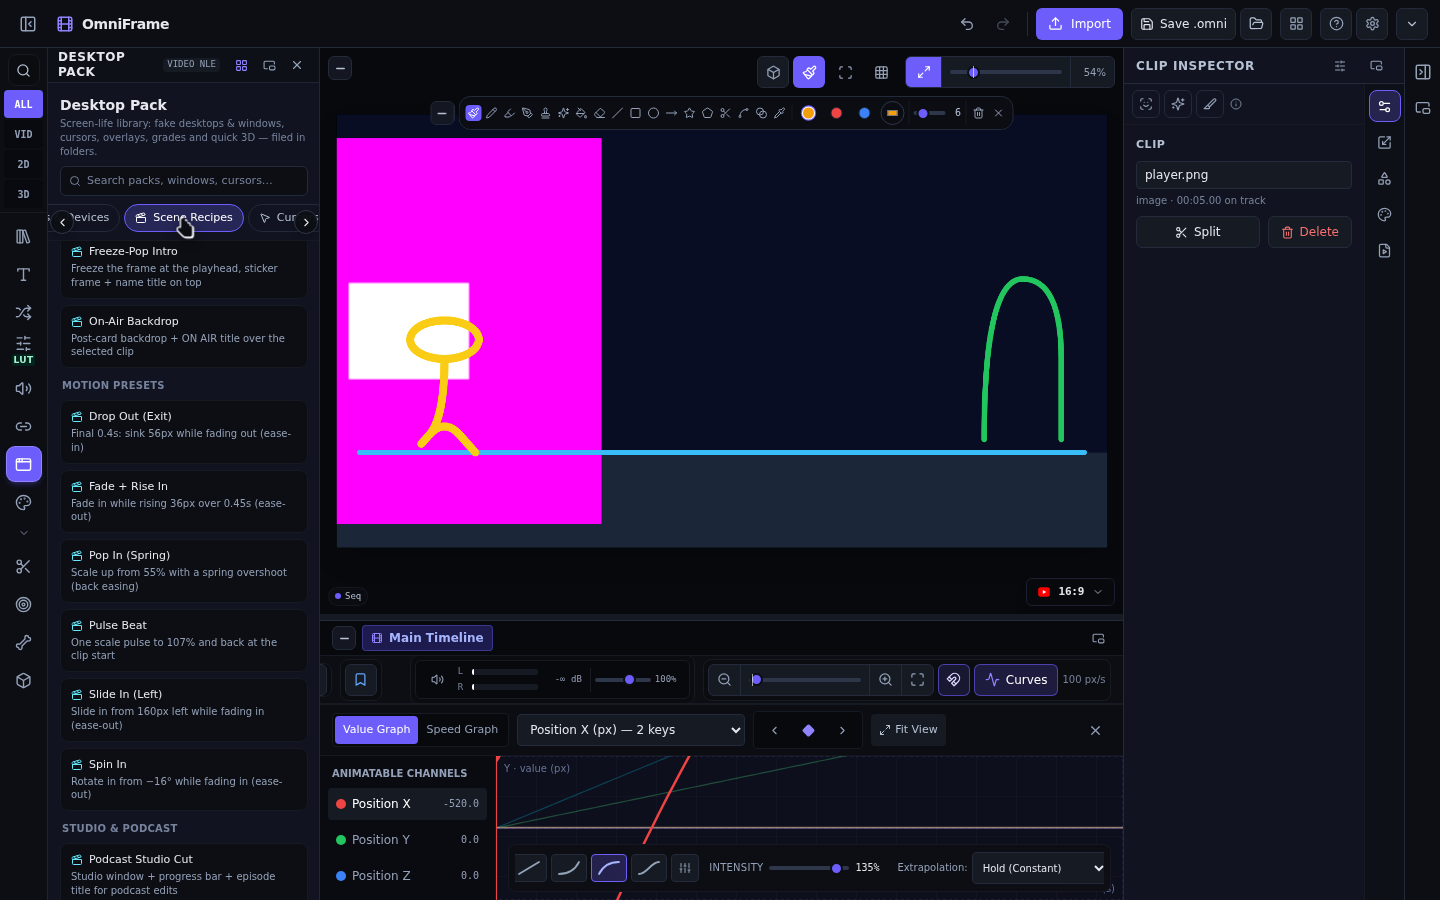
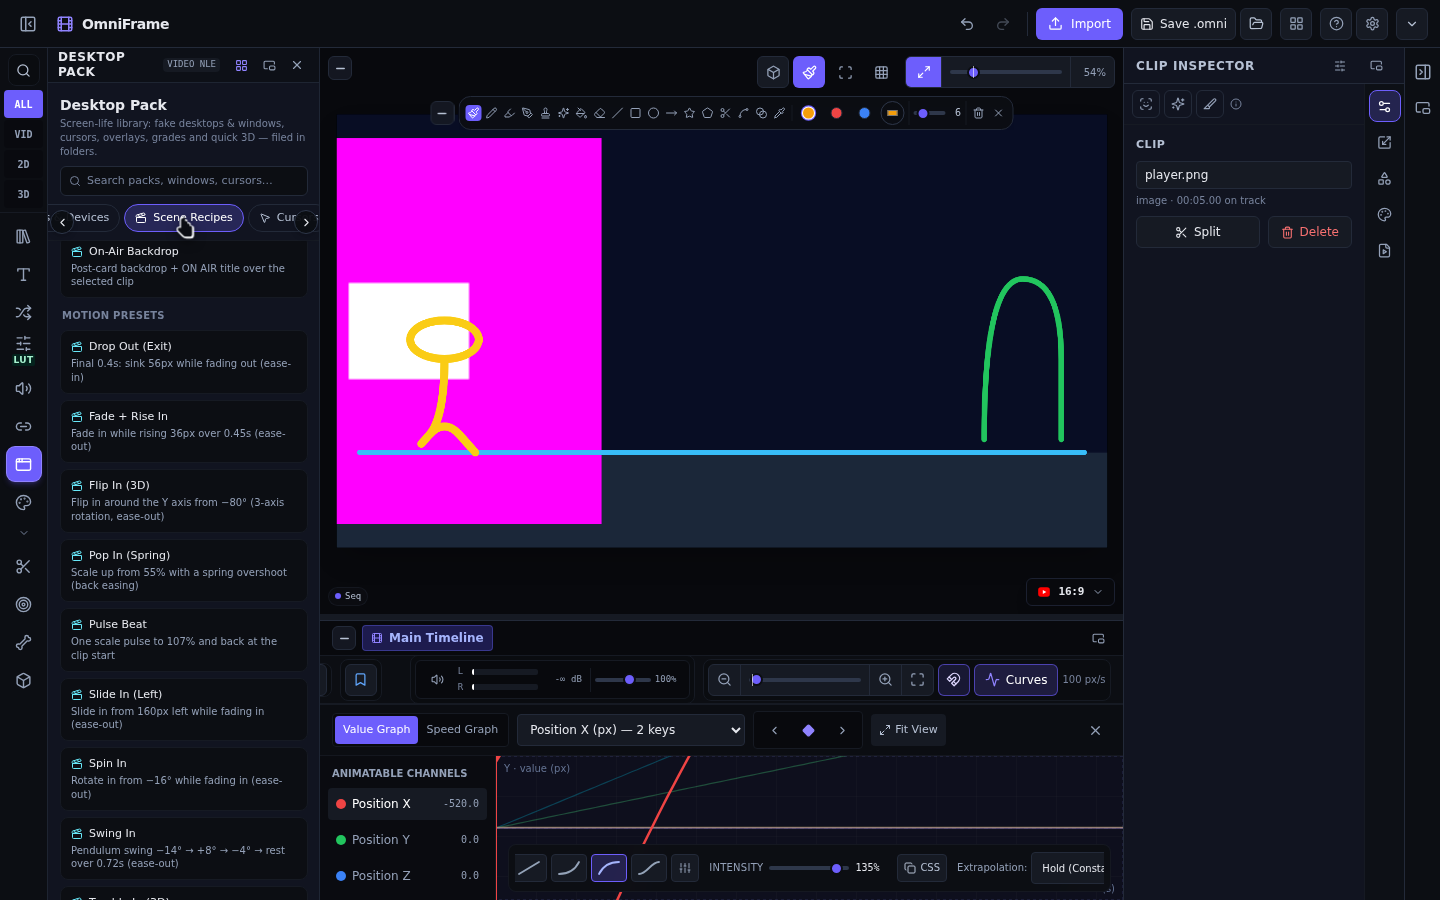
More tricks: 3D Flip/Tumble/Swing presets + Copy-easing-as-CSS
Three new Motion Presets ride the Rotation X/Y engine (recipes 15->18,
Motion Presets 6->9): Flip In (3D) on rotation_y, Tumble In (3D) on
rotation_x, Swing In pendulum on rotation_z — all ordinary editable
keyframes via setClipKeyframe.

Jitter follow-up from the docs-scan gap table: Copy-as-CSS in the
Graph Editor. easingToCss/keyframeSegmentToCss sample the exact
evaluated curve (bezier handles + easing intensity included) into a
CSS linear() timing function; constant maps to steps(1, end).

QA: apps-scenes (flip/tumble/swing keyframe writes), graph-capcut
37/37 (section 4d incl. clipboard readback of the sampled linear()),
sidebar-segmentation 21/21, typecheck. Screenshot tour extended:
05 re-shot with new presets, 06 catches the player mid-flip.

diff --git a/src/components/GraphEditor.tsx b/src/components/GraphEditor.tsx
@@ -9,6 +9,7 @@ import {
   Trash2,
   Sliders,
   Check,
+  Copy,
   X,
   RefreshCw,
   Layers,
@@ -26,6 +27,8 @@ import {
   addOrUpdateKeyframe,
   applyEasingPreset,
   removeKeyframe,
+  easingToCss,
+  keyframeSegmentToCss,
 } from '../lib/animation/CurveEngine'
 import { BlenderRotationIcon } from './icons/BlenderRotationIcon'
 
@@ -84,6 +87,7 @@ export function GraphEditor() {
   const [viewValRange, setViewValRange] = useState<[number, number]>([-100, 100])
   const [selectedKeyframeId, setSelectedKeyframeId] = useState<string | null>(null)
   const [morePresetsOpen, setMorePresetsOpen] = useState(false)
+  const [cssCopied, setCssCopied] = useState(false)
   const [draggingTarget, setDraggingTarget] = useState<
     { type: 'key'; keyId: string; startPointer: { x: number; y: number }; startT: number; startV: number }
     | { type: 'inHandle' | 'outHandle'; keyId: string; startPointer: { x: number; y: number }; startDt: number; startDv: number }
@@ -855,6 +859,39 @@ export function GraphEditor() {
                     </span>
                   </div>
                 )}
+
+                {/* Copy easing as CSS (Jitter-style developer handoff) */}
+                <button
+                  type="button"
+                  data-testid="easing-copy-css-btn"
+                  title="Copy this segment's easing as a CSS timing function"
+                  onClick={async () => {
+                    if (!activeCurve) return
+                    const css =
+                      keyframeSegmentToCss(activeCurve, selectedKeyframe.id) ??
+                      easingToCss(selectedKeyframe.interpolation, selectedKeyframe.easingIntensity ?? 1)
+                    try {
+                      await navigator.clipboard.writeText(css)
+                    } catch {
+                      const ta = document.createElement('textarea')
+                      ta.value = css
+                      document.body.appendChild(ta)
+                      ta.select()
+                      document.execCommand('copy')
+                      ta.remove()
+                    }
+                    setCssCopied(true)
+                    window.setTimeout(() => setCssCopied(false), 1600)
+                  }}
+                  className={`flex items-center gap-1 shrink-0 rounded border px-1.5 h-7 text-[10px] font-medium transition-colors focus-visible:outline-none focus-visible:ring-2 focus-visible:ring-brand ${
+                    cssCopied
+                      ? 'border-emerald-500/60 bg-emerald-500/15 text-emerald-300'
+                      : 'border-ink-700 bg-ink-800 text-ink-300 hover:border-ink-600 hover:text-white'
+                  }`}
+                >
+                  {cssCopied ? <Check size={12} /> : <Copy size={12} />}
+                  {cssCopied ? 'Copied' : 'CSS'}
+                </button>
 
                 {/* Extrapolation Mode Dropdown */}
                 <div className="flex items-center gap-1 shrink-0 ml-auto">

diff --git a/src/components/DesktopPackPanel.tsx b/src/components/DesktopPackPanel.tsx
@@ -313,6 +313,52 @@ const SCENE_RECIPES: SceneRecipe[] = [
       return 'Drop Out keyframed at the clip end — tune it in the Graph Editor'
     },
   },
+  {
+    id: 'motion-flip-in', label: 'Flip In (3D)', desc: 'Flip in around the Y axis from −80° (3-axis rotation, ease-out)', group: 'Motion Presets', needsClip: true,
+    run: async () => {
+      const s = useEditor.getState()
+      const clip = s.clips.find((c) => c.id === s.selectedClipId)
+      if (!clip) return 'Select a clip first'
+      const t = clip.transform
+      const base = t.rotationY ?? 0
+      s.setClipKeyframe(clip.id, 'rotation_y', 0, base - 80, 'ease-out')
+      s.setClipKeyframe(clip.id, 'rotation_y', 0.55, base, 'ease-out')
+      s.setClipKeyframe(clip.id, 'opacity', 0, 0, 'ease-out')
+      s.setClipKeyframe(clip.id, 'opacity', 0.4, t.opacity, 'ease-out')
+      return 'Flip In (3D) keyframed on Rotation Y — tune it in the Graph Editor'
+    },
+  },
+  {
+    id: 'motion-tumble-in', label: 'Tumble In (3D)', desc: 'Tumble in around the X axis from +70° (3-axis rotation, ease-out)', group: 'Motion Presets', needsClip: true,
+    run: async () => {
+      const s = useEditor.getState()
+      const clip = s.clips.find((c) => c.id === s.selectedClipId)
+      if (!clip) return 'Select a clip first'
+      const t = clip.transform
+      const base = t.rotationX ?? 0
+      s.setClipKeyframe(clip.id, 'rotation_x', 0, base + 70, 'ease-out')
+      s.setClipKeyframe(clip.id, 'rotation_x', 0.55, base, 'ease-out')
+      s.setClipKeyframe(clip.id, 'opacity', 0, 0, 'ease-out')
+      s.setClipKeyframe(clip.id, 'opacity', 0.4, t.opacity, 'ease-out')
+      return 'Tumble In (3D) keyframed on Rotation X — tune it in the Graph Editor'
+    },
+  },
+  {
+    id: 'motion-swing-in', label: 'Swing In', desc: 'Pendulum swing −14° → +8° → −4° → rest over 0.72s (ease-out)', group: 'Motion Presets', needsClip: true,
+    run: async () => {
+      const s = useEditor.getState()
+      const clip = s.clips.find((c) => c.id === s.selectedClipId)
+      if (!clip) return 'Select a clip first'
+      const t = clip.transform
+      s.setClipKeyframe(clip.id, 'rotation_z', 0, t.rotation - 14, 'ease-out')
+      s.setClipKeyframe(clip.id, 'rotation_z', 0.28, t.rotation + 8, 'ease-out')
+      s.setClipKeyframe(clip.id, 'rotation_z', 0.52, t.rotation - 4, 'ease-out')
+      s.setClipKeyframe(clip.id, 'rotation_z', 0.72, t.rotation, 'ease-out')
+      s.setClipKeyframe(clip.id, 'opacity', 0, 0, 'ease-out')
+      s.setClipKeyframe(clip.id, 'opacity', 0.25, t.opacity, 'ease-out')
+      return 'Swing In keyframed — tune the pendulum in the Graph Editor'
+    },
+  },
 ]
 
 function ensurePackAsset(def: PackAssetDef): string {

diff --git a/src/lib/animation/CurveEngine.ts b/src/lib/animation/CurveEngine.ts
@@ -519,6 +519,60 @@ export function rotationXYMatrix(
   return { a: cy, b: sx * sy, c: 0, d: cx }
 }
 
+/** Format evaluated progress samples (0..1 time) as a CSS linear() timing function. */
+function progressToCssLinear(samples: number[]): string {
+  const stops = samples.map((p, i) => {
+    const pct = Math.round((i / (samples.length - 1)) * 1000) / 10
+    const val = Math.round(p * 1000) / 10
+    return `${val}% ${pct}%`
+  })
+  return `linear(${stops.join(', ')})`
+}
+
+/**
+ * CSS timing-function for an easing preset (Jitter-style "Copy as CSS").
+ * Standard presets are sampled from the exact evaluated curve (including
+ * intensity), so back/bounce/elastic overshoot survives as linear() stops;
+ * only the trivially exact cases use keyword forms.
+ */
+export function easingToCss(interpolation: InterpolationType, intensity = 1): string {
+  if (interpolation === 'constant') return 'steps(1, end)'
+  const inten = Math.min(1.5, Math.max(0, intensity))
+  if (interpolation === 'linear' && inten === 1) return 'linear'
+  const N = 20
+  const samples: number[] = []
+  for (let i = 0; i <= N; i++) {
+    const u = i / N
+    const raw = evaluateEasingProgress(u, interpolation)
+    samples.push(u + (raw - u) * inten)
+  }
+  return progressToCssLinear(samples)
+}
+
+/**
+ * CSS timing-function for one concrete keyframe segment, sampled from the
+ * real evaluated curve — bezier handles and easing intensity included.
+ * Returns null when the keyframe has no following segment to describe.
+ */
+export function keyframeSegmentToCss(curve: PropertyCurve, keyframeId: string): string | null {
+  const keys = [...curve.keyframes].sort((a, b) => a.time - b.time)
+  const idx = keys.findIndex((k) => k.id === keyframeId)
+  if (idx < 0 || idx >= keys.length - 1) return null
+  const k0 = keys[idx]
+  const k1 = keys[idx + 1]
+  if (k0.interpolation === 'constant') return 'steps(1, end)'
+  const dt = k1.time - k0.time
+  const dv = k1.value - k0.value
+  if (dt <= 1e-6 || Math.abs(dv) <= 1e-9) return null
+  const N = 20
+  const samples: number[] = []
+  for (let i = 0; i <= N; i++) {
+    const t = k0.time + (i / N) * dt
+    samples.push((evaluateCurve(curve, t) - k0.value) / dv)
+  }
+  return progressToCssLinear(samples)
+}
+
 export function evaluateClipAnimation(clip: Clip, timelineTime: number): EvaluatedClipTransform {
   const base = clip.transform
   const anim = clip.animation

diff --git a/docs/FEATURE-CATALOG-AND-SUPPORT.md b/docs/FEATURE-CATALOG-AND-SUPPORT.md
@@ -136,11 +136,12 @@ The checked panel items below mean **the panel and its boundary were inventoried
 - [x] **Krita-style drawing workspace** — the Drawing panel now leads with a permanent icon Toolbox (grouped tiles, tooltip names, never tabbed/accordioned away) above flattened tabbed dockers; picking a tool brings its options forward (Smart Patch → Smart Patch docker, shapes → Tool Parameters, paint → Brush & Layers). Panels follow context Krita-style instead of packing modes: enabling drawing/3D from the Preview opens the matching panel, the Drawing workspace shelves the Audio rail tab, and panels that host their own drawing/3D controls (Tracking, OmniFrame, Pack) are never yanked away. Section headers wrap at natural size instead of truncating (whole-UI overflow audit: 0 issues). `node qa/drawing-workspace-e2e.mjs` **passed this pass**; regressions: drawing-layout, smart-patch, omniframe-mode-drawing-mask, krita-transparency-mask, onion-skin, desktop-pack, mask-tool, tool-finder, ui-strict-audit all pass.
 - [x] **Desktop Pack** — screen-life tab, now **seven sections** (Desktop & Windows, Apps & Devices, Scene Recipes, Cursors, Overlays, Edit Presets, Quick 3D) with 75 generated assets in collapsible folders (curated folder order, items filed A–Z by name like File Explorer), cross-folder search, eighteen stackable bundles, edit-preset auditions, and quick 3D. `node qa/desktop-pack-e2e.mjs` and `node qa/apps-scenes-e2e.mjs` **passed this pass**.
 - [x] **Apps & Devices pack** — demo-text recreations of the user's screenshot gist (music/podcast players, File Explorer, Finder, Gmail, chat, video-studio dashboard, code/design tools, calendar/spreadsheet) plus iOS/Android/Figma-style phone layouts and Maps/Photos/Notes/Weather/Settings/Shopping/Files/Video-player phone scenes and a desktop Video Call grid; originals stay in gitignored `img_data_pack/` and are never reproduced (see `docs/IMG-DATA-PACK.md`). **Passed this pass** via `qa/apps-scenes-e2e.mjs`.
-- [x] **Scene Recipes (CoAnimator study)** — fifteen one-click scenes (Freeze-Pop Intro, Cinematic Cast Intro, Spotlight Tutorial, Punch-In Cut, Caption Burst, Vertical 9:16, Ken Burns Drift, On-Air Backdrop, Podcast Studio Cut, and six Jitter-style Motion Presets — Fade + Rise In, Pop In (Spring), Slide In (Left), Spin In, Pulse Beat, Drop Out (Exit) — that write ordinary editable keyframes; see `docs/REFERENCE-STUDY-MOTION.md`) plus a Scene Brief Builder that turns title/caption/format/backdrop/look fields into editable clips using only real editor functions and round-trips the brief as a plain JSON file an external agent can author; every result stays an editable clip (see `docs/COANIMATOR-STUDY.md`). **Passed this pass** via `qa/apps-scenes-e2e.mjs`.
+- [x] **Scene Recipes (CoAnimator study)** — eighteen one-click scenes (Freeze-Pop Intro, Cinematic Cast Intro, Spotlight Tutorial, Punch-In Cut, Caption Burst, Vertical 9:16, Ken Burns Drift, On-Air Backdrop, Podcast Studio Cut, and nine Jitter-style Motion Presets — Fade + Rise In, Pop In (Spring), Slide In (Left), Spin In, Pulse Beat, Drop Out (Exit), **Flip In (3D)**, **Tumble In (3D)**, **Swing In** — that write ordinary editable keyframes; see `docs/REFERENCE-STUDY-MOTION.md`) plus a Scene Brief Builder that turns title/caption/format/backdrop/look fields into editable clips using only real editor functions and round-trips the brief as a plain JSON file an external agent can author; every result stays an editable clip (see `docs/COANIMATOR-STUDY.md`). **Passed this pass** via `qa/apps-scenes-e2e.mjs`.
 - [x] **Docs-scan parity pass (Krita/Jitter)** — full documentation trees of Remotion, Jitter, Hyperframes, and Krita were read page-by-page, including Krita's User Manual/Reference/Tutorials and its manual-download index, Jitter's help center, Hyperframes' full-docs index (Prompt Guide Levels 1–6), and Remotion's docs landing; YouTube links embedded in those docs were followed to their public metadata (see `docs/REFERENCE-STUDY-DOCS-SCAN.md` for the maps, the honest metadata-only note, and the prioritized gap table). Two documented gaps shipped: **onion-skin tint strength** per Krita's Onion Skin docker (100% = silhouette, lower keeps original stroke colors; `onion-tint-strength-slider`) and **easing intensity** per Jitter (0% = linear → 150% exaggerated; `easing-intensity-slider` in the Graph Editor, evaluated inside `evaluateCurve`). Deferred with reasons in the study doc: storyboard surface, blur channel, Lottie export, CSS-easing copy, drawing assistants/wrap-around. **Passed this pass**: `qa/onion-skin-cel-animation-e2e.mjs` (incl. tint slider + blend math), `qa/graph-capcut-e2e.mjs` §4b (intensity node write + engine blend), `qa/sidebar-segmentation-layouts-e2e.mjs` 21/21, `qa/desktop-pack-e2e.mjs`, typecheck.
 - [x] **Gold Motion video scan → Rotation X/Y rendering fix** — the user-supplied Vault Tube walkthrough of Gold Motion (Alight Motion-style mobile editor; narrated, transcript read in full, frames not viewed — see `docs/REFERENCE-STUDY-DOCS-SCAN.md`) headlined 3-axis rotation flips. OmniFrame had Rotation X (Tilt) / Y (Pan) inspector sliders and `rotation_x`/`rotation_y` curves, but the compositor silently dropped both and `evaluateClipAnimation` discarded the static values. Fixed with an orthographic Rx·Ry model (`rotationXYMatrix`: cos foreshortening + combined shear; 90° edge-on, 180° mirror — canvas 2D has no true perspective and none is claimed), base-transform fallbacks, and `applyRotationXY` in all three clip render paths (text, media, compound); export records the preview canvas so it inherits the fix. Also mapped from the video: Upscale/Project Doctor/Reverse/Twister/DFR/Audio Converter/Light elements (Point/Spot + Intensity/Falloff) — status per feature in the study doc; Light layers are the next candidate, AI-labelled upscaling not adopted. **Passed this pass**: `qa/graph-capcut-e2e.mjs` 30/30 incl. §4c (matrix + evaluator) and §7 (screenshot pixel proof, clip span 385→131 at Rotation Y 70°), typecheck.
 - [x] **Full-feature journey confirmation** — one chained end-to-end test (`qa/full-feature-journey-e2e.mjs`) walks the user's exact scenario: generate a 2D vector game scene with drawing strokes (ground, character, EXIT door) → image clips on the timeline (image-to-video) → **convert drawing to clips** → **compound clip** (create from bg + drawing, enter nested sequence, exit back) → OmniFrame frame-scope selection → **move the entity from start to exit** with position keyframes → rotate tricks (spin `rotation_z` 0→360°, 3D flip `rotation_y` 0→180°, edge-on at midpoint) → **export video** → OpenCV reads the exported WebM (138 frames) and confirms the entity's centroid travelled 589→934 px across the frame. **Passed this pass**, alongside the confirmation battery: `drawing-to-clips-fuzz` (10,000 scenarios), `compound-clip-colors-character-shift`, `omniframe-selection-masking-recolor`, `omniframe-mode-vetting`, `omniframe-clean-infill-motion`, `layered-drawing-maskview`, `video-editing-interplay`, `timeline-controls`, `keyframe-graph-3d`, `apps-scenes`, `sidebar-segmentation-layouts` — all EXIT 0. No product code changed; this wave is verification plus the new journey suite.
 - [x] **Improvement screenshot tour** — `qa/improvement-screens.mjs` captures the shipped improvements in the real app into `evidence/improvements/`: `01-journey-start.png` (image-to-video timeline with the converted vector-drawing scene composited), `02-rotate-tricks-midair.png` (entity mid spin/flip at 1.25 s with rotated timeline thumbnails), `03-graph-easing-intensity.png` (Graph Editor **INTENSITY 135%** slider), `04-onion-tint-strength.png` (Drawing panel Onion Skinning **Active (Ghosting)** with **Tint Strength 40%**), `05-motion-presets.png` (Desktop Pack **MOTION PRESETS** group: Drop Out, Fade + Rise, Pop In (Spring), Pulse Beat, Slide In, Spin In). Re-verified on a fresh sandbox this pass: `full-feature-journey`, `onion-skin-cel-animation`, `graph-capcut` 30/30, typecheck — all EXIT 0.
+- [x] **More tricks + CSS handoff** — three new Motion Presets ride the 3-axis rotation engine: **Flip In (3D)** (Rotation Y −80°→0), **Tumble In (3D)** (Rotation X +70°→0), **Swing In** (pendulum −14°→+8°→−4°→rest), taking Scene Recipes to **18** (9 Motion Presets); plus Jitter's **Copy-as-CSS**: any keyframe segment — bezier handles and easing intensity included — copies as an exact sampled CSS `linear()` timing function from the Graph Editor (`easing-copy-css-btn`). New screenshot `evidence/improvements/06-flip-in-midair.png` catches the player mid-flip; `05` re-shot with the new presets and CSS button. **Passed this pass**: `qa/apps-scenes-e2e.mjs` (flip/tumble/swing keyframe assertions), `qa/graph-capcut-e2e.mjs` **37/37** (§4d CSS incl. clipboard readback), `qa/sidebar-segmentation-layouts-e2e.mjs` 21/21, typecheck.
 - [x] **Inspector icon rail (segments redesign)** — the old segmented arrangement is gone from the inspector: general sections (General, Transform, Mask, Appearance, Audio, Effects, Text, Source) are icon-only buttons in a vertical rail on the panel's right edge; the remaining sections ride the horizontal "train" strip with pinned left/right arrows at both edges (shown whenever the strip overflows, disabled at the ends, no chip ever underneath an arrow). `node qa/inspector-icon-rail-e2e.mjs` **passed this pass**; the audio/LUT/rotomask suites that drive section tabs also passed unchanged.
 - [x] **Horizontal section strips & overflow** — with **Hide horizontal overflow** on (Settings → Accessibility, default on) strip scrollbars are invisible and strips scroll via pinned edge arrows (both edges whenever overflowing), mouse wheel, or drag; turning it off restores native scrollbars everywhere and hides the arrows. `node qa/desktop-pack-e2e.mjs` **passed this pass**.
 - [x] **Temporal inpaint propagation (ProPainter study)** — donor fill now dilates the target mask (Mask grow 0–24 px), flow-aligns donor pixels by mask-centroid shift, builds the donor pool from ±5 local neighbours plus global references every 10 frames, and keeps neighbouring target frames on the same/smoothly advancing donor when scores are close, and can restrict donor search by direction (earlier/later/both) and ±frame window; spatial inpaint remains the fallback and UI copy claims nothing neural (see `docs/PROPAINTER-STUDY.md`). `node qa/inpaint-propagation-e2e.mjs` and `node qa/temporal-inpaint-e2e.mjs` **passed this pass**.

diff --git a/docs/REFERENCE-STUDY-DOCS-SCAN.md b/docs/REFERENCE-STUDY-DOCS-SCAN.md
@@ -238,7 +238,7 @@ Rotation Y = 70° visibly narrows the clip's span in the preview canvas.
 | 1 | Onion-skin **tint strength** (Krita) | **Implemented this pass** | Shipped + QA |
 | 2 | Easing **intensity** control (Jitter) | **Implemented this pass** | Shipped + QA |
 | 3 | **Storyboard** surface: scene cards + notes before timeline work (Krita Storyboard docker; Hyperframes L6) | Brief Builder exists; no visual storyboard | Next candidate; medium UI build |
-| 4 | Copy easing as **CSS** (Jitter) | Graph Editor presets exist | Small follow-up; needs cubic-bezier mapping per preset |
+| 4 | Copy easing as **CSS** (Jitter) | **Implemented in the follow-up pass** | `easingToCss`/`keyframeSegmentToCss` sample the exact evaluated curve (bezier handles + intensity included) into CSS `linear()` stops; **CSS** button in the Graph Editor keyframe controls (`easing-copy-css-btn`), QA graph-capcut §4d incl. clipboard readback |
 | 5 | **Blur** as animatable channel (Jitter presets) | Effects exist; curves are transform/opacity only | Needs effect-channel in curve engine; larger |
 | 6 | **Lottie** export (Jitter) | No Lottie exporter | Large; defer, note in catalog |
 | 7 | Drawing **assistants** (vanishing point/perspective) + **wrap-around** (Krita) | Not present | Drawing-side roadmap items; defer |
